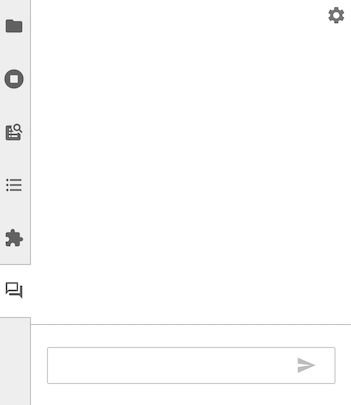
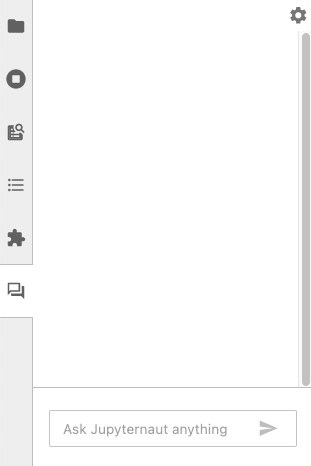
Chat UI quality of life improvements (#154)
* Updates screen shot with placeholder

* Incorporates change to code

Changed region(s): [[0.0, 0.0, 0.955, 1.0], [0.926, 0.0, 1.0, 0.8296], [0.2026, 0.8889, 0.7524, 0.9481]]

diff --git a/packages/jupyter-ai/src/components/chat-input.tsx b/packages/jupyter-ai/src/components/chat-input.tsx
@@ -45,11 +45,18 @@ export function ChatInput(props: ChatInputProps): JSX.Element {
           variant="outlined"
           multiline
           onKeyDown={handleKeyDown}
+          placeholder='Ask Jupyternaut anything'
           InputProps={{
             endAdornment: (
                <InputAdornment position="end">
-                  <IconButton size="small" color="primary" onClick={props.onSend} disabled={!props.value.trim().length}>
-                     <SendIcon />
+                  <IconButton
+                    size="small"
+                    color="primary"
+                    onClick={props.onSend}
+                    disabled={!props.value.trim().length}
+                    title='Send message (SHIFT+ENTER)'
+                  >
+                    <SendIcon />
                   </IconButton>
                </InputAdornment>
             )
